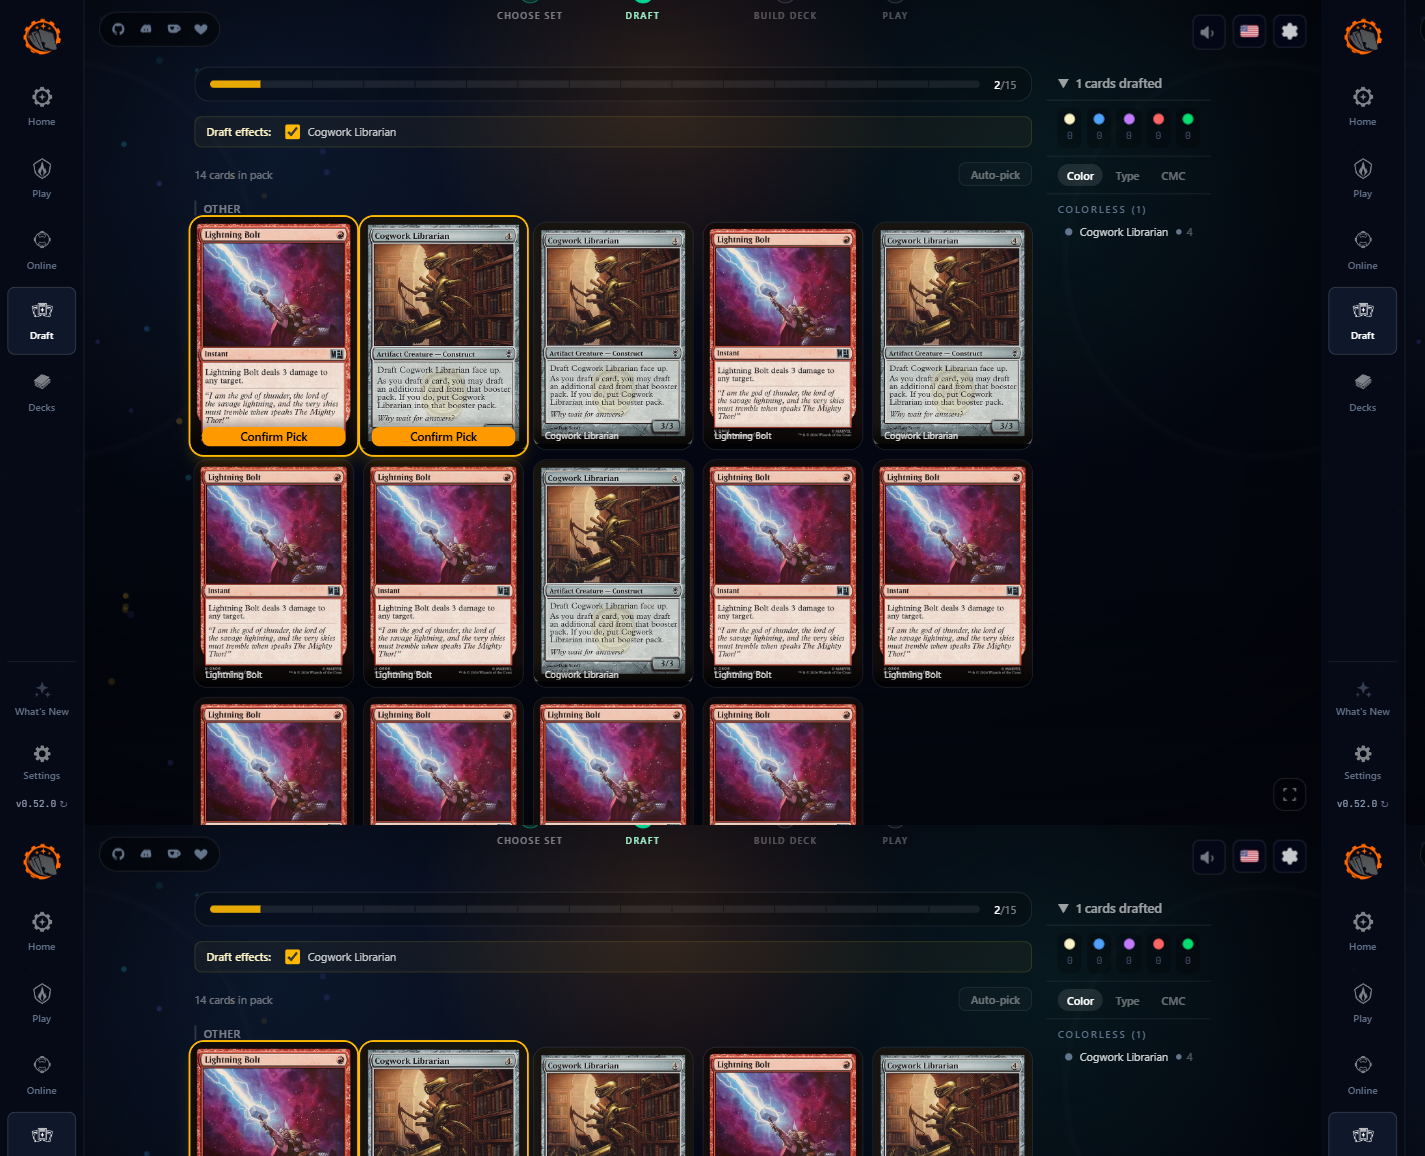
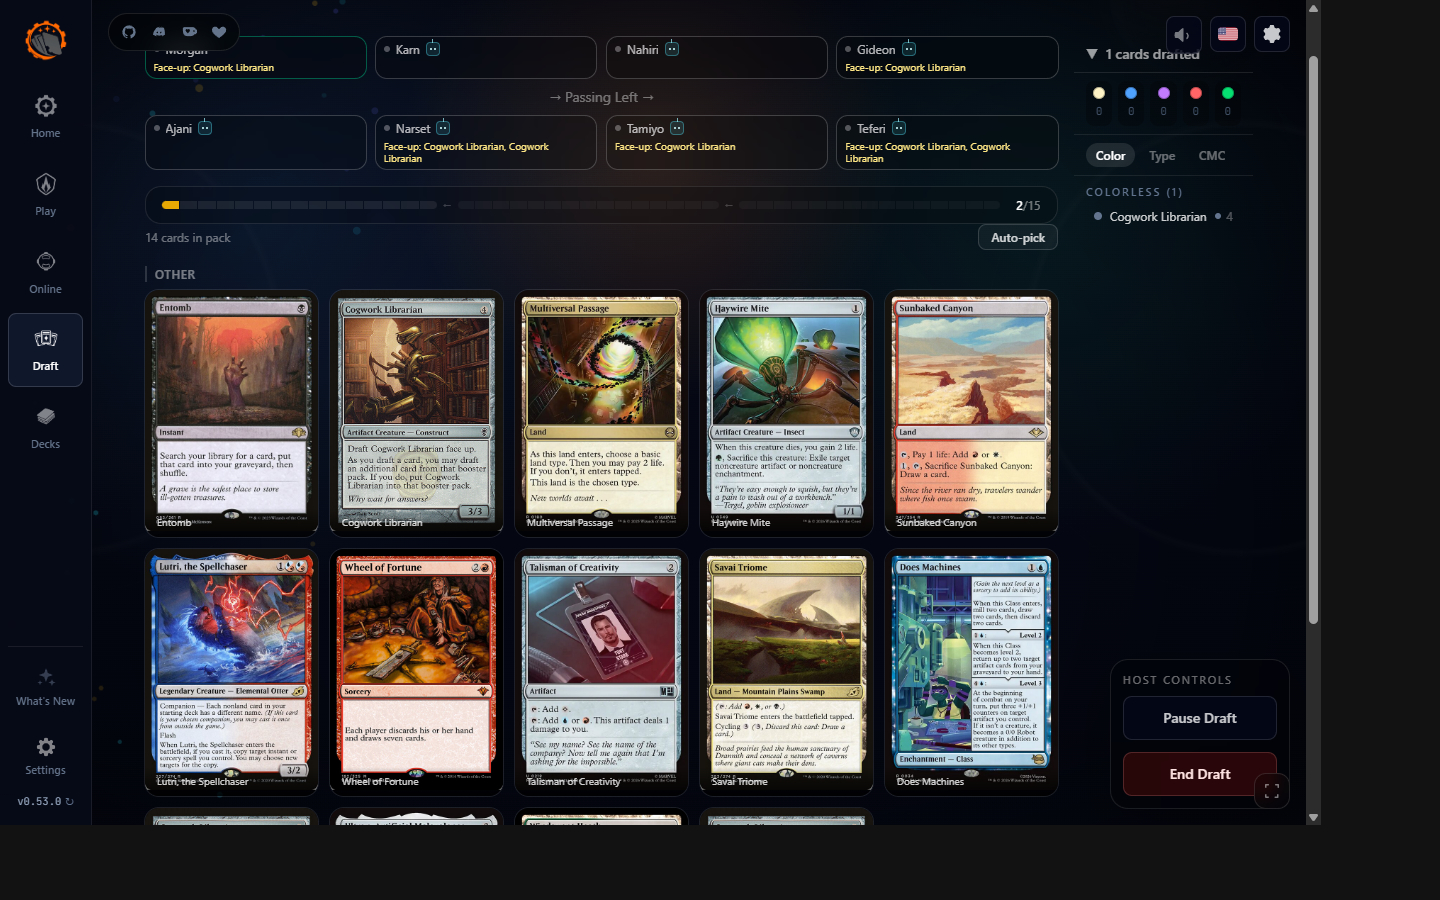
Show face-up draft cards to pod players

diff --git a/client/src/components/draft/SeatStatusRing.tsx b/client/src/components/draft/SeatStatusRing.tsx
@@ -40,29 +40,40 @@ function SeatBadge({ seat, isLocal }: SeatBadgeProps) {
     : isLocal
       ? "border-emerald-400/40"
       : PICK_STATUS_BORDER[seat.pick_status];
+  const faceUpNames = seat.face_up_draft_cards.map((card) => card.name).join(", ");
 
   return (
     <div
-      className={`flex items-center gap-1.5 rounded-[12px] border bg-black/18 px-2 py-1 backdrop-blur-md ${borderColor}`}
+      className={`flex min-w-0 flex-col items-start gap-1 rounded-[12px] border bg-black/18 px-2 py-1 backdrop-blur-md ${borderColor}`}
     >
-      <div
-        className={`h-1.5 w-1.5 rounded-full ${
-          showDisconnected
-            ? "bg-rose-400"
-            : PICK_STATUS_DOT[seat.pick_status]
-        }`}
-        aria-label={
-          showDisconnected ? t("seat.disconnected") : t("seat.connected")
-        }
-      />
-      <span
-        className={`truncate text-xs ${
-          showDisconnected ? "text-white/40 line-through" : "text-white/70"
-        }`}
-      >
-        {seat.display_name || t("seat.label", { number: seat.seat_index + 1 })}
-      </span>
-      {seat.is_bot && <BotIndicator label={botLabel} size="sm" />}
+      <div className="flex min-w-0 items-center gap-1.5">
+        <div
+          className={`h-1.5 w-1.5 rounded-full ${
+            showDisconnected
+              ? "bg-rose-400"
+              : PICK_STATUS_DOT[seat.pick_status]
+          }`}
+          aria-label={
+            showDisconnected ? t("seat.disconnected") : t("seat.connected")
+          }
+        />
+        <span
+          className={`truncate text-xs ${
+            showDisconnected ? "text-white/40 line-through" : "text-white/70"
+          }`}
+        >
+          {seat.display_name || t("seat.label", { number: seat.seat_index + 1 })}
+        </span>
+        {seat.is_bot && <BotIndicator label={botLabel} size="sm" />}
+      </div>
+      {faceUpNames && (
+        <span
+          className="max-w-full break-words text-[10px] leading-tight text-amber-200"
+          title={faceUpNames}
+        >
+          {t("seat.faceUpDraftCards", { cards: faceUpNames })}
+        </span>
+      )}
     </div>
   );
 }
@@ -78,13 +89,14 @@ export function SeatStatusRing() {
 
   if (seats.length === 0) return null;
 
-  // Top row: seats 0-3, Bottom row: seats 4-7
+  // Top row: seats 0-3, Bottom row: seats 4-7. On phones each row uses two
+  // columns so public face-up card names remain readable.
   const topRow = seats.slice(0, 4);
   const bottomRow = seats.slice(4, 8);
 
   return (
     <div className="flex flex-col gap-2 mb-4">
-      <div className="grid grid-cols-4 gap-2">
+      <div className="grid grid-cols-2 gap-2 sm:grid-cols-4">
         {topRow.map((seat) => (
           <SeatBadge
             key={seat.seat_index}
@@ -99,7 +111,7 @@ export function SeatStatusRing() {
           ? t("seat.passingLeft")
           : t("seat.passingRight")}
       </div>
-      <div className="grid grid-cols-4 gap-2">
+      <div className="grid grid-cols-2 gap-2 sm:grid-cols-4">
         {bottomRow.map((seat) => (
           <SeatBadge
             key={seat.seat_index}

diff --git a/client/src/components/draft/__tests__/SeatStatusRing.test.tsx b/client/src/components/draft/__tests__/SeatStatusRing.test.tsx
@@ -1,0 +1,56 @@
+import { afterEach, describe, expect, it, vi } from "vitest";
+import { cleanup, render, screen } from "@testing-library/react";
+
+vi.mock("../../../stores/multiplayerDraftStore", () => ({
+  useMultiplayerDraftStore: (selector: (state: Record<string, unknown>) => unknown) =>
+    selector({
+      seatIndex: 0,
+      view: {
+        pass_direction: "Left",
+        seats: [
+          {
+            seat_index: 0,
+            display_name: "Drafter",
+            is_bot: false,
+            connected: true,
+            has_submitted_deck: false,
+            pick_status: "Pending",
+            face_up_draft_cards: [],
+          },
+          {
+            seat_index: 1,
+            display_name: "Opponent",
+            is_bot: false,
+            connected: true,
+            has_submitted_deck: false,
+            pick_status: "Picked",
+            face_up_draft_cards: [
+              {
+                instance_id: "cogwork-1",
+                name: "Cogwork Librarian",
+                set_code: "CNS",
+                collector_number: "58",
+                rarity: "common",
+                colors: [],
+                cmc: 4,
+                type_line: "Artifact Creature - Construct",
+                draft_effect: "additional_pick",
+              },
+            ],
+          },
+        ],
+      },
+    }),
+}));
+
+import { SeatStatusRing } from "../SeatStatusRing";
+
+describe("SeatStatusRing", () => {
+  afterEach(cleanup);
+
+  it("shows other drafters' face-up draft cards", () => {
+    render(<SeatStatusRing />);
+
+    expect(screen.getByText("Face-up: Cogwork Librarian")).toBeInTheDocument();
+  });
+});

diff --git a/client/src/adapter/draft-adapter.ts b/client/src/adapter/draft-adapter.ts
@@ -81,6 +81,7 @@ export interface SeatPublicView {
   connected: boolean;
   has_submitted_deck: boolean;
   pick_status: "Pending" | "Picked" | "TimedOut" | "NotDrafting";
+  face_up_draft_cards: DraftCardInstance[];
 }
 
 export type DraftStatus =
@@ -170,7 +171,7 @@ export interface DraftPlayerView {
   pass_direction: "Left" | "Right";
   current_pack: DraftCardInstance[] | null;
   pool: DraftCardInstance[];
-  draft_effects?: DraftCardInstance[];
+  draft_effects: DraftCardInstance[];
   /** Engine-owned grouping, ordering, and duplicate counts for the pool. */
   pool_groups: DraftPoolGroups;
   /** Engine-provided sealed packs in opening order. Absent for draft events. */

diff --git a/client/src/components/draft/HostControls.tsx b/client/src/components/draft/HostControls.tsx
@@ -92,7 +92,7 @@ export function HostControls() {
     return null;
 
   return (
-    <div className="fixed bottom-4 right-4 z-50 flex min-w-[180px] flex-col gap-2 rounded-[18px] border border-white/10 bg-black/18 p-3 shadow-[0_18px_54px_rgba(0,0,0,0.22)] backdrop-blur-md">
+    <div className="fixed bottom-[calc(env(safe-area-inset-bottom)+5.25rem)] right-3 z-50 flex min-w-[180px] flex-col gap-2 rounded-[18px] border border-white/10 bg-black/18 p-3 shadow-[0_18px_54px_rgba(0,0,0,0.22)] backdrop-blur-md min-[820px]:bottom-4 min-[820px]:right-4">
       <div className="text-[0.68rem] uppercase tracking-[0.18em] text-white/40">
         {t("hostControls.title")}
       </div>

diff --git a/client/src/adapter/p2p-draft-host.ts b/client/src/adapter/p2p-draft-host.ts
@@ -2001,6 +2001,7 @@ export class P2PDraftHost {
         connected: i === 0 || this.guestSessions.has(i),
         has_submitted_deck: false,
         pick_status: "NotDrafting",
+        face_up_draft_cards: [],
       });
     }
     return seats;
@@ -2015,6 +2016,7 @@ export class P2PDraftHost {
       pass_direction: "Left",
       current_pack: null,
       pool: [],
+      draft_effects: [],
       pool_groups: EMPTY_DRAFT_POOL_GROUPS,
       seats: this.buildSeatPublicViews(),
       cards_per_pack: 14,

diff --git a/client/src/components/draft/PackDisplay.tsx b/client/src/components/draft/PackDisplay.tsx
@@ -246,7 +246,7 @@ export function PackDisplay({
             {draftEffects.map((card) => (
               <label
                 key={card.instance_id}
-                className="flex cursor-pointer items-center gap-2 text-xs text-white/75"
+                className="flex min-h-11 cursor-pointer items-center gap-2 text-xs text-white/75"
               >
                 <input
                   type="checkbox"

diff --git a/client/src/pages/DraftPodPage.tsx b/client/src/pages/DraftPodPage.tsx
@@ -662,7 +662,7 @@ function DraftingPhaseContent() {
           ⚠ {t(`podPhaseView.pauseReason.${pauseKey}`)}
         </div>
       )}
-      <div className="flex gap-4">
+      <div className="flex flex-col gap-4 lg:flex-row">
         <div className="flex min-w-0 flex-1 flex-col">
           <SeatStatusRing />
           <PickTimer />

diff --git a/client/src/adapter/__tests__/server-draft-adapter.test.ts b/client/src/adapter/__tests__/server-draft-adapter.test.ts
@@ -67,6 +67,7 @@ function createMockDraftView(overrides: Partial<DraftPlayerView> = {}): DraftPla
     pass_direction: "Left",
     current_pack: null,
     pool: [],
+    draft_effects: [],
     pool_groups: EMPTY_DRAFT_POOL_GROUPS,
     seats: [],
     cards_per_pack: 14,

diff --git a/client/src/adapter/__tests__/draftPodAdapter.test.ts b/client/src/adapter/__tests__/draftPodAdapter.test.ts
@@ -112,6 +112,7 @@ function mockView(status: string): DraftPlayerView {
     pass_direction: "Left",
     current_pack: null,
     pool: [],
+    draft_effects: [],
     pool_groups: {
       color_groups: [],
       type_groups: [],

diff --git a/client/src/stores/__tests__/multiplayerDraftStore.test.ts b/client/src/stores/__tests__/multiplayerDraftStore.test.ts
@@ -80,6 +80,7 @@ function mockView(status: string): DraftPlayerView {
     pass_direction: "Left",
     current_pack: null,
     pool: [],
+    draft_effects: [],
     pool_groups: {
       color_groups: [],
       type_groups: [],

diff --git a/client/src/components/draft/__tests__/LimitedDeckBuilder.test.tsx b/client/src/components/draft/__tests__/LimitedDeckBuilder.test.tsx
@@ -48,6 +48,7 @@ const TEST_VIEW: BuilderView = {
       type_line: "Creature - Drake",
     },
   ],
+  draft_effects: [],
   pool_groups: {
     color_groups: [],
     type_groups: [],

diff --git a/client/src/components/draft/__tests__/SealedPackOpening.test.tsx b/client/src/components/draft/__tests__/SealedPackOpening.test.tsx
@@ -37,6 +37,7 @@ const VIEW: DraftPlayerView = {
       type_line: "Instant",
     },
   ],
+  draft_effects: [],
   pool_groups: {
     color_groups: [],
     type_groups: [
